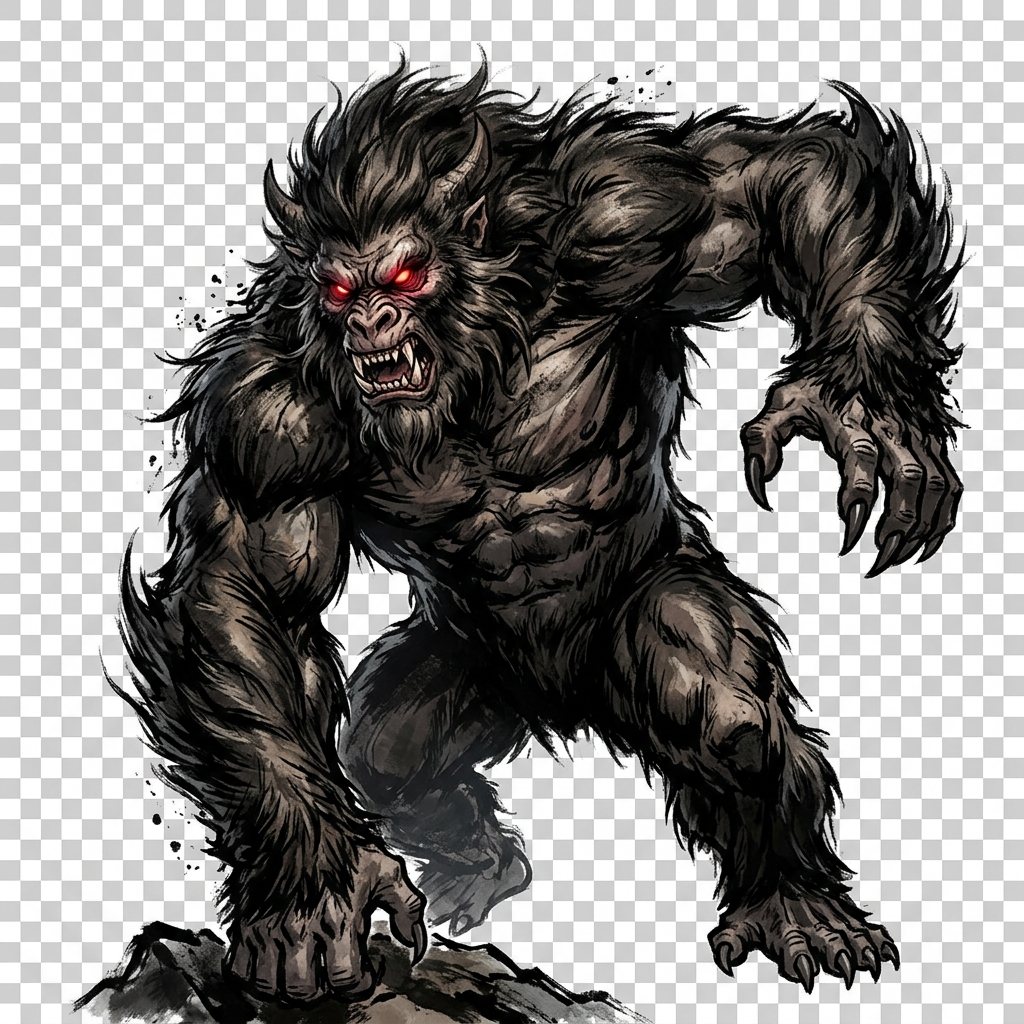
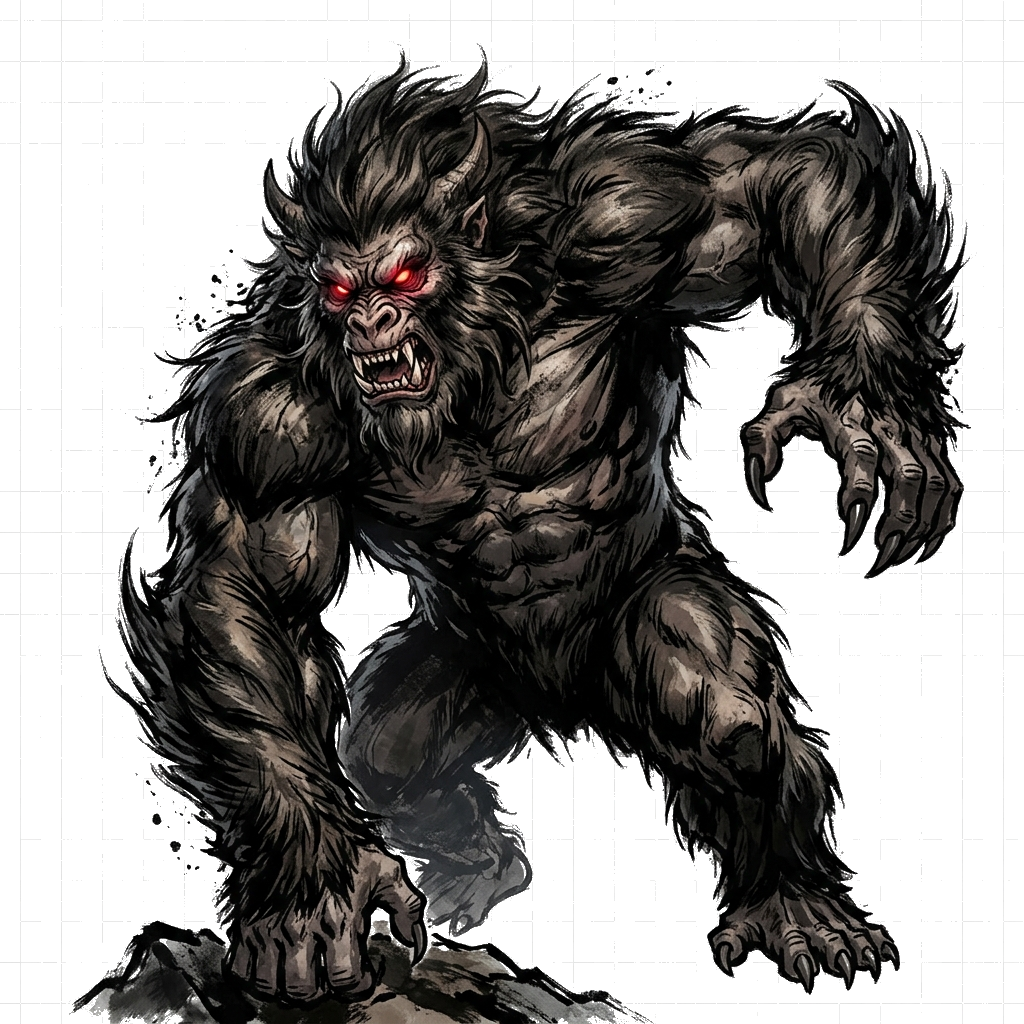
Add act-based battle backgrounds and missing art assets

Changed region(s): [[0.0, 0.0, 1.0, 1.0], [0.3125, 0.5312, 0.4062, 0.6562]]

diff --git a/assets/art/ART_GUIDE.md b/assets/art/ART_GUIDE.md
@@ -23,7 +23,17 @@ Current generated backgrounds:
 - `main_menu_bg.png`  
   Used by main menu and character select.
 - `battle_bg.png`  
-  Used by the battle scene.
+  Legacy fallback used by the battle scene.
+- `battle_bg_act_1.png`  
+  Used by act 1 battles.
+- `battle_bg_act_2.png`  
+  Used by act 2 battles.
+- `battle_bg_act_3.png`  
+  Used by act 3 battles.
+- `battle_bg_act_4.png`  
+  Used by act 4 battles.
+- `battle_bg_act_5.png`  
+  Used by act 5 battles.
 - `event_bg.png`  
   Used by route, rest, event, reward, and result screens.
 - `map_bg_ink.png`  